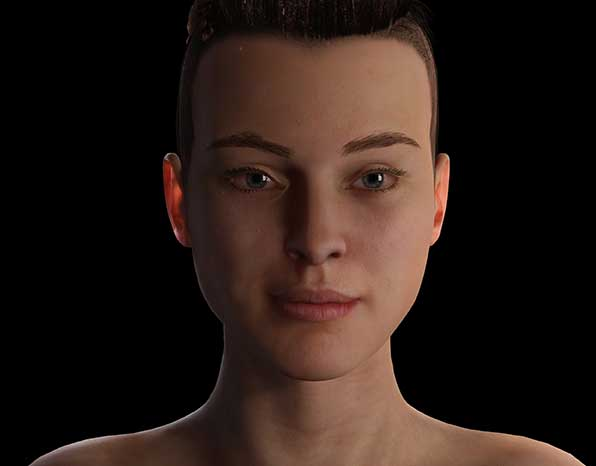
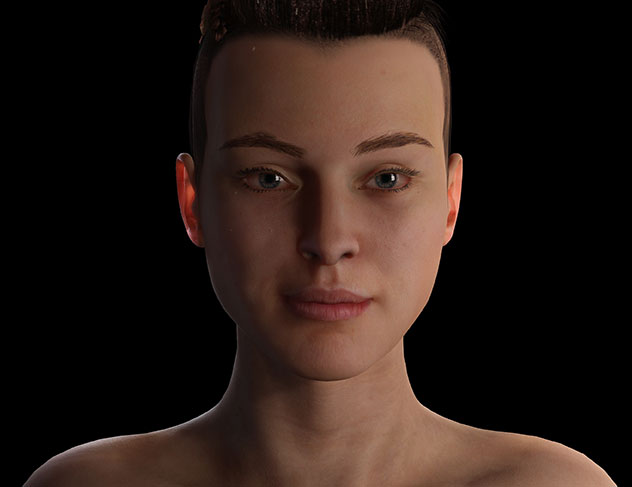
Added background image to hero section and added what we do section on homepage

diff --git a/assets/css/style.css b/assets/css/style.css
@@ -3,6 +3,7 @@
 body {
     padding: 0;
     margin: 0;
+    border: 0;
     font-family: 'Montserrat', 'Fira Sans', sans-serif;
 }
 
@@ -21,14 +22,13 @@ body {
     max-height: 78px;
     max-width: 30%;
     margin-left: 10px;
-    padding-top: 10px;
+    padding-top: 15px;
     overflow: visible;
     background-color: inherit;
 }
 
-.nav-container ul {
-    margin: 0;
-    padding-top: 20px;
+.nav-container ul {    
+    padding-top: 15px;
     list-style: none;
     overflow: hidden;
 }
@@ -37,7 +37,7 @@ body {
     display: block;
     text-decoration: none;
     text-align: center;
-    line-height: 1.5rem;
+    line-height: 1.25rem;
     padding-bottom: 5px;
 }
 
@@ -49,6 +49,7 @@ body {
     text-transform: uppercase;
     color: #ffffff;
     background-color: #c0a321;
+    border-radius: 5px;
     border: none;
     cursor: pointer;
 }
@@ -69,8 +70,8 @@ body {
 }
 
 .nav-container .menu-icon {
-    padding: 10px 10px;
-    margin: 10px;
+    padding-top: 30px;
+    padding-right: 15px;
     position: relative;
     float: right;
     cursor: pointer;
@@ -80,7 +81,7 @@ body {
     background-color: #aa0047;
     display: block;
     height: 2px;
-    width: 48px;
+    width: 38px;
     position: relative;
     transition: background-color 0.3s ease 0s;
 }
@@ -93,7 +94,7 @@ body {
     width: 100%;
     position: absolute;
     transition: all 0.3s ease 0s;
-    top: 5px;
+    top: 10px;
 }
 
 .nav-container .menu-icon .nav-icon:after {
@@ -104,7 +105,7 @@ body {
     width: 100%;
     position: absolute;
     transition: all 0.3s ease 0s;
-    top: -5px;
+    top: -10px;
 }
 
 .nav-container .menu-button {
@@ -133,7 +134,7 @@ body {
     color: #000000;
     font-size: 18px;
     text-transform: uppercase;
-    margin-top: 6px;
+    margin-top: 5px;
 }
 
 @media screen and (min-width:1366px) {
@@ -143,7 +144,7 @@ body {
     }
 
     .nav-container li a {
-        padding: 10px 20px;
+        padding: 10px 10px;
     }
 
     .nav-container .menu {
@@ -161,33 +162,124 @@ body {
 
 .hero-iframe {
     position: relative;
-    top: 10px;
-    padding-bottom: 56.25%;
-    width: 100%;
-    height: 0;
+    padding-top: 56.25%;
+    padding-bottom: 10px;
     overflow: hidden;
 }
 
 .responsive-iframe {
     position: absolute;
     top: 0;
-    bottom: 0;
+    left: 0;
     width: 100%;
     height: 100%;
+    border: 0;
+    background-image: url("../images/neomorphic-bg.png");
 }
 
-/*------------------- vr-cover blurb */
+/*------------------- about-us blurb */
 
+.about-us-container {
+    width: 100%;
+    padding: 60px 20px 30px 20px;
+    flex-direction: column;
+}
+
+.about-blurb {
+    font-size: 40px;
+    font-family: "Fira Sans", sans-serif;
+    color: #000000;
+    text-align: center;
+}
+
+.about-blurb-color {
+    color: #aa0047;
+}
+
+p {
+    font-size: 20px;
+    font-family: "Montserrat", sans-serif;
+    color: #000000;
+    text-align: center;
+}
+
+.divider {
+    width: 60px;
+    height: 5px;
+    border: 0;
+    background-color: #c0a321;
+    text-align: center;
+}
+
+.about-us-container a {
+    text-align: center;
+    padding-top: 30px;
+}
+
+.learn-more-btn {
+    font-size: 20px;
+    text-decoration: none;
+    text-transform: uppercase;
+    color: #ffffff;
+    background-color: #aa0047;
+    padding: 10px;
+    border: none;
+    border-radius: 5px;
+    cursor: pointer;
+}
+
+.learn-more-btn:hover {
+    background-color: #c0a321;
+}
+
+@media (min-width: 320px) {
+
+    .about-us-container {
+        display: flex;
+        flex-wrap: wrap;
+        justify-content: center;
+    }
+}
+
+/*------------------- vr-cover blurb 
+.vrar-container {
+    display: grid;
+    grid-template-columns: 1fr 1fr;
+    grid-template-rows: 1fr 1fr;
+    grid-row-gap: 0;
+    grid-column-gap: 0;
+    grid-auto-flow: rows;
+}
+
+.vr-blurb {
+    padding-top: 15%;
+    text-align: center;
+}
+
+.ar-blurb {
+    padding-top: 15%;
+    text-align: center;
+}
+
+*/
+
+
+
+
+
+
+/*---------------- 
 .vr-cover {
+    padding-top: 20px;
     width: 100vw;
     height: 100vh;
 
     display: flex;
     justify-content: left;
 
-    background-image: url("assets/images/female-avatar1.jpg");
+    background-image: 
 }
-/*------------------- what we do grid */
+/*------------------- what we do grid 
 
 .grid-container {
     display: grid;
@@ -200,6 +292,9 @@ body {
 .grid-item1 {
     font-family: 'Montserrat', sans-serif;
     color:#ffffff;
-    background-color: black;
+    color: black;
     justify-self: center;
 }
+
+--- */
+

diff --git a/index.html b/index.html
@@ -1,9 +1,10 @@
+<!DOCTYPE html>
 <html lang="en">
 <head>
     <meta charset="UTF-8">
     <meta http-equiv="X-UA-Compatible" content="IE=edge">
     <meta name="viewport" content="width=device-width, initial-scale=1.0">
-    <title>Train in XR - Guiding You Through a Successful Learning Innovation</title>
+    <title>Train in XR - Experts in VR and AR Learning Innovation</title>
     <link rel="stylesheet" href="assets/css/style.css">
 </head>
 <body>
@@ -29,23 +30,52 @@
     <!------------------- interactive hero section-->
     <div class="hero-iframe">
         <iframe class="responsive-iframe" id="c807c8c6-d3b6-414b-89e0-473acdeace85" 
-            src="https://www.vectary.com/viewer/v1/?model=c807c8c6-d3b6-414b-89e0-473acdeace85&env=redwall&turntable=1" 
-            frameborder="0">
+            src="https://www.vectary.com/viewer/v1/?model=c807c8c6-d3b6-414b-89e0-473acdeace85&env=redwall" 
+            frameborder="0" alt="we create engaging experiences">
         </iframe>
     </div>
-    
+    <br>
     <!------------------- what we do section-->
-    <div class="vr-cover">
-        <div class="vr-cover-blurb">
-            <h1>Virtual Reality training scenarios.</h1>
-            <p>Tailored for today's learners. Future-proofed for tomorrow's new joiners.</p>
-        </div>
+
+    <div class="about-us-container">
+        <h1 class="about-blurb">We consult on and build award-winning <span class="about-blurb-color">VR</span> and <span class="about-blurb-color">AR</span> learning innovation and solutions. </h1>
+        <p>To help solve your workforce training challenges.</p>
+        <hr class="divider">
+        <a href="#"><button class="learn-more-btn">Learn More</button></a>
     </div>
 
-    <!------------------- what we do section-->
+
+        <br> <br> <br>
+    <!----
+    <div class="vrar-container">
+        <div class="vr-blurb">
+            <h2>Virtual Reality training scenarios.</h2>
+            <p>Tailored for today's learners. Future-proofed for tomorrow's new joiners.</p>
+            <a href="#"><button class="learn-more-btn">Learn More</button></a>
+        </div>
+        <div>
+            <img src="assets/images/female-avatar1.jpg" alt="digital human sample1">
+        </div>
+        <div>
+            <img src="assets/images/ar-1.jpg" alt="augmented reality training sample1">
+        </div>
+        <div class="ar-blurb">
+            <h2>Augmented Reality learning modules.</h2>
+            <p>Developed for multi-user access. Collaborate in real-time, from anywhere in the world.</p>
+            <a href="#"><button class="learn-more-btn">Learn More</button></a>
+        </div>
+    </div>
+    <br>
+    -->
+    <!------------------- what we do section
+
+    <div>
+        <h1>This is a big header</h1>
+    </div>
+
     <div class="grid-container">
         <div class="grid-item1">
-            <h1>We build immersive training scenarios.</h1>
+            <h2>We build immersive training scenarios.</h2>
             <h3>Tailored for today's learners. Future-proofed for tomorrow's new joiners.</h3>
         </div>
         <div>
@@ -55,6 +85,6 @@
         <div>Testimonials</div>
         <div>Contact Us</div>  
     </div>
-
+    *-->
 </body>
 </html>
